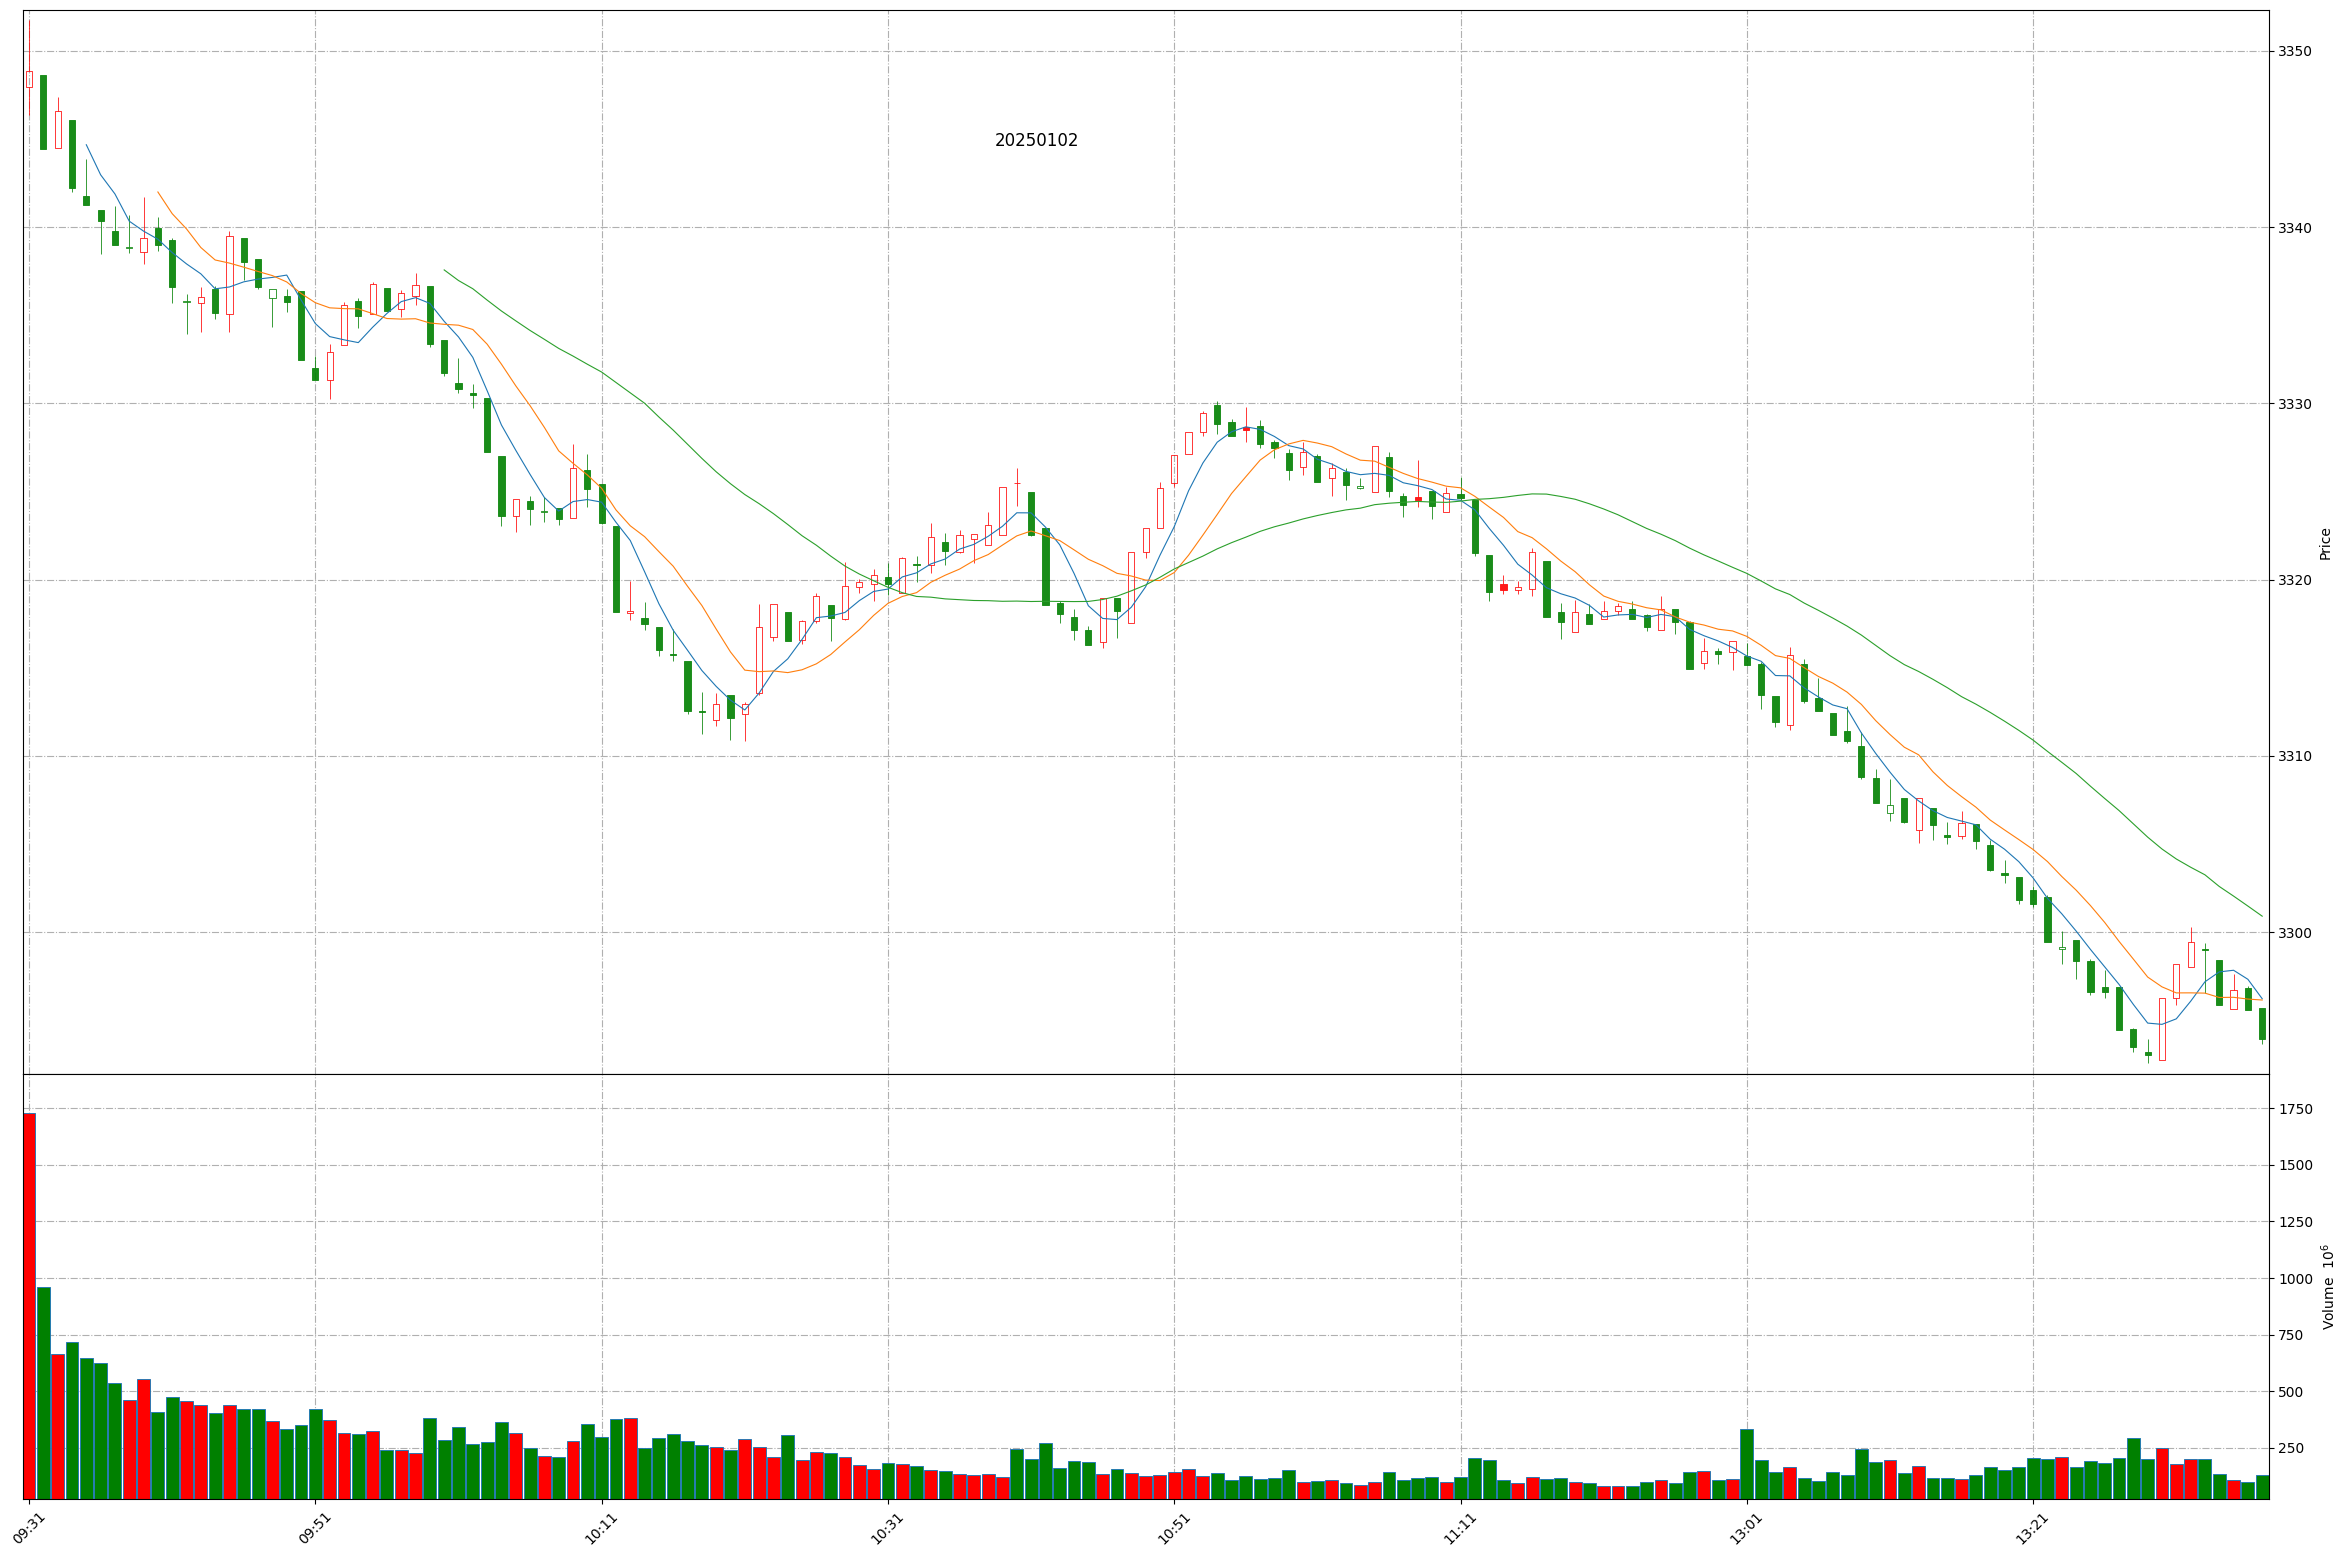
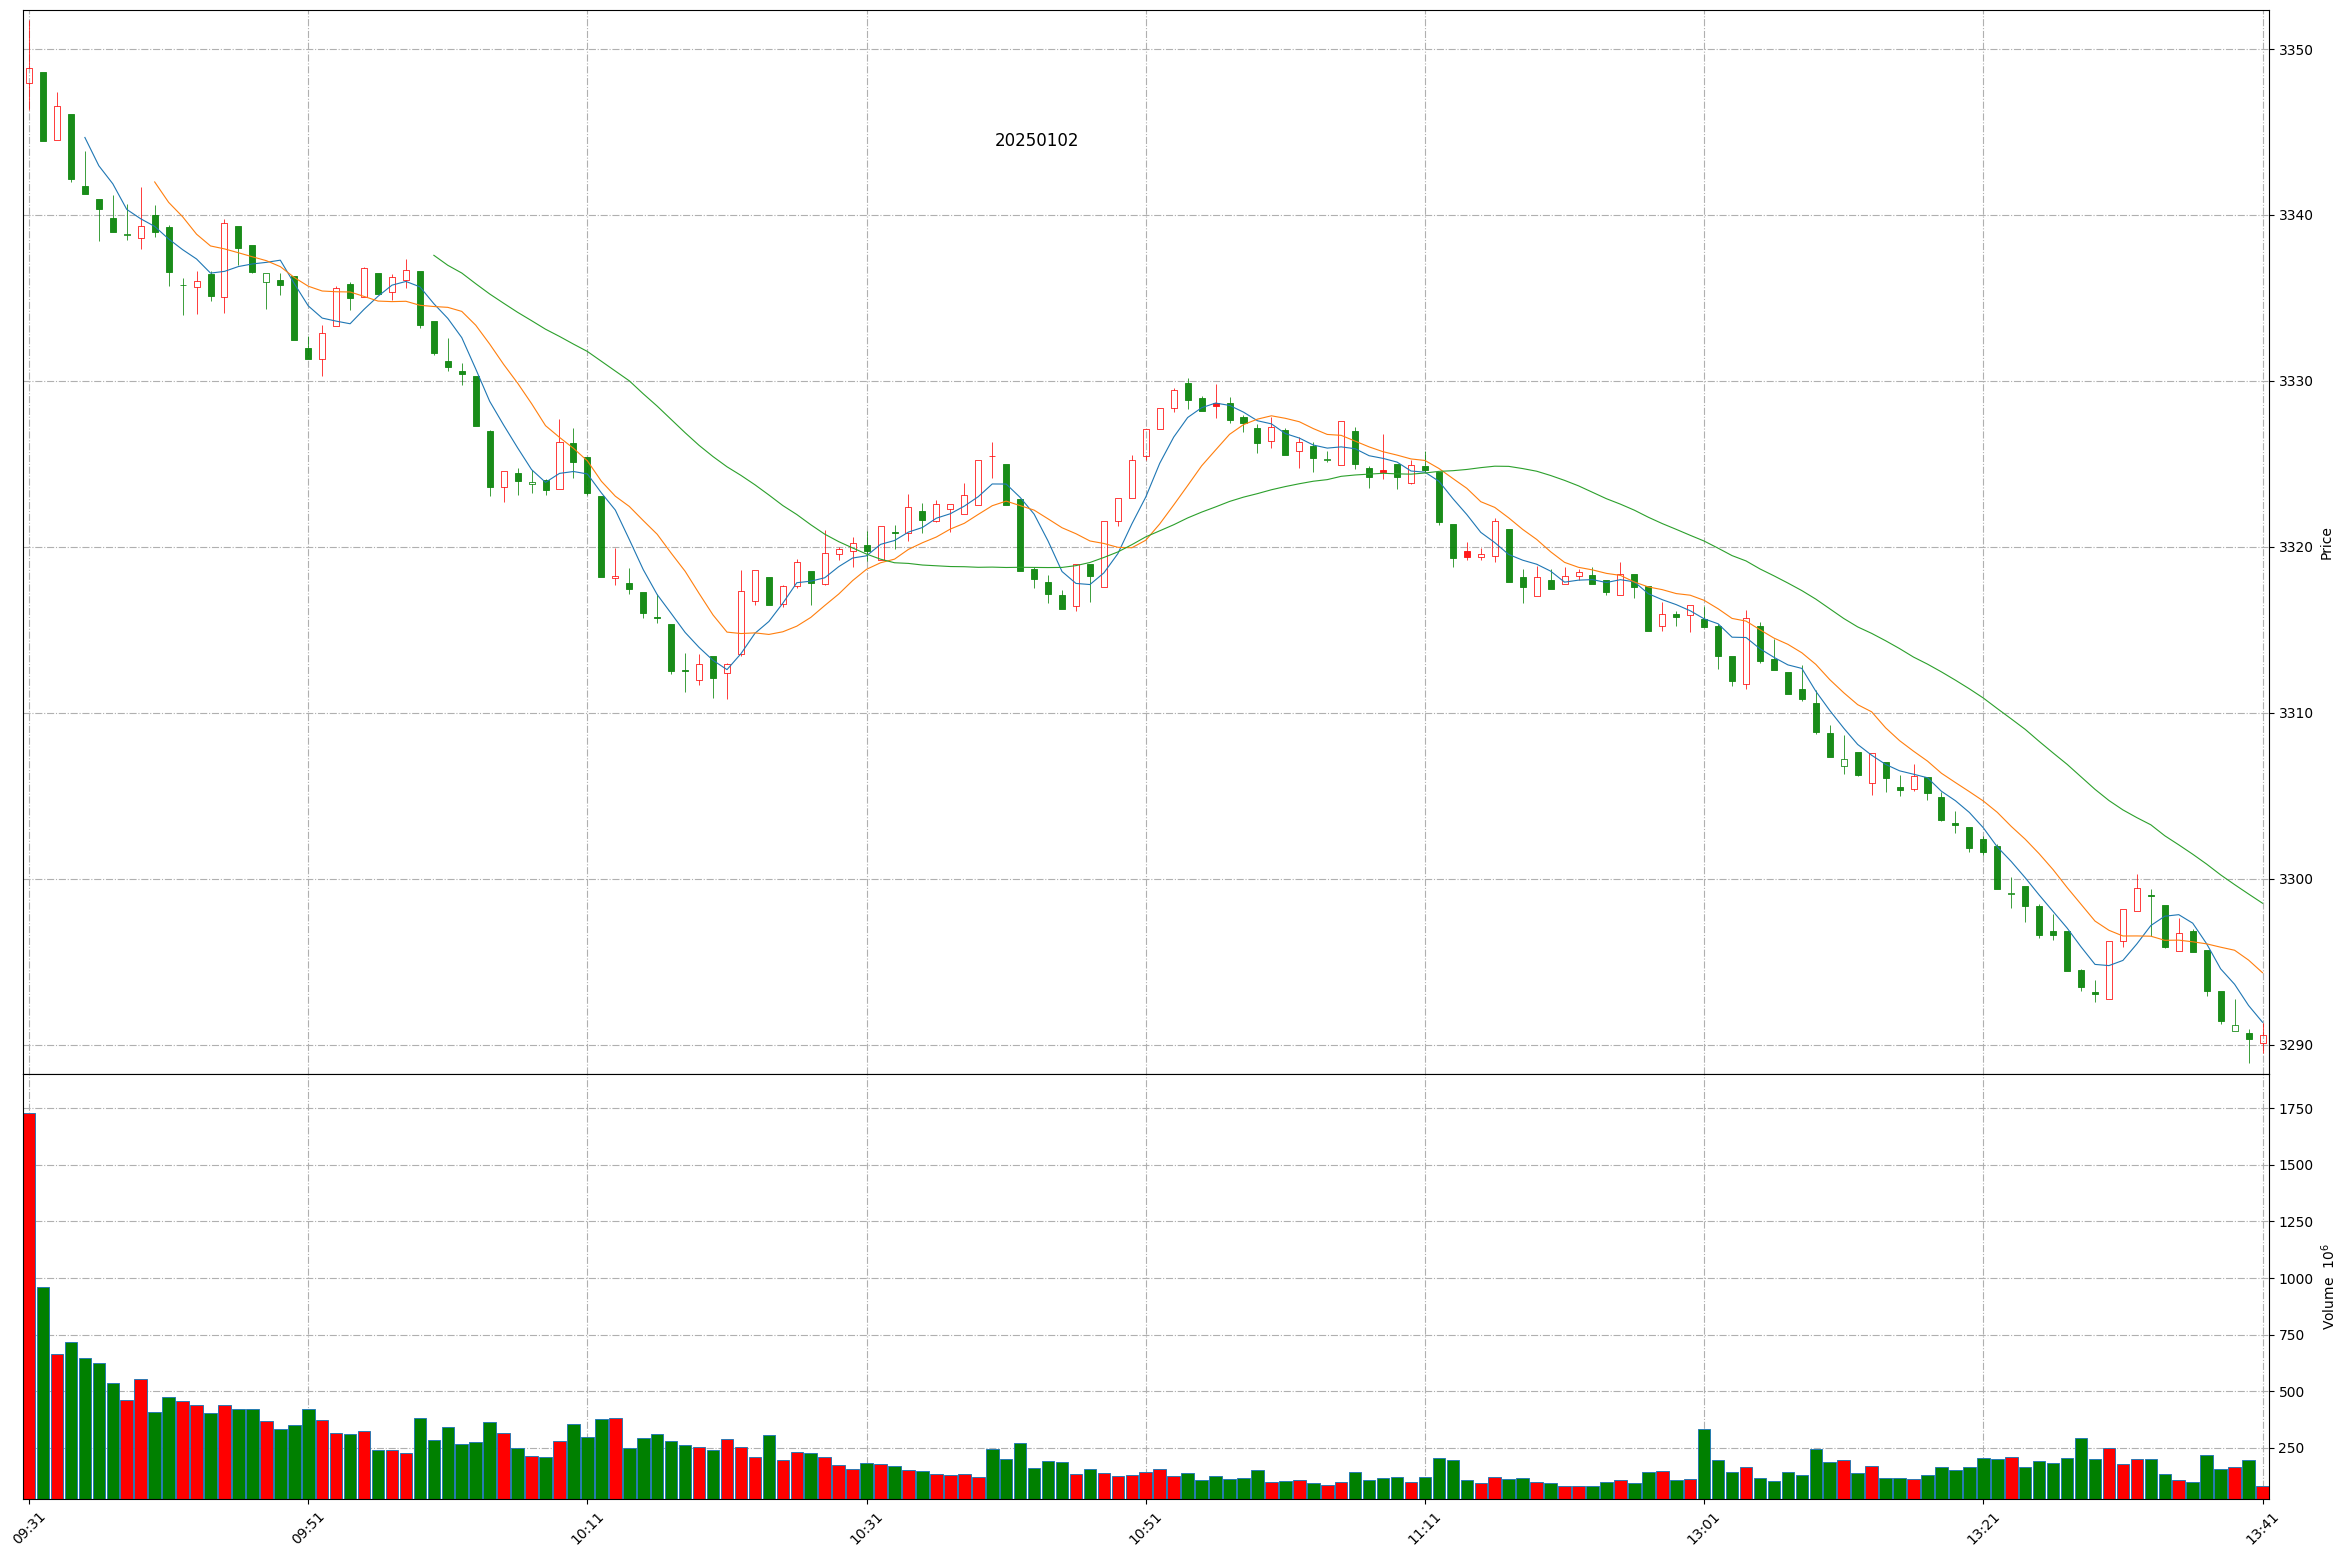
Github action update at 2025-01-02 13:40:52.

diff --git a/README.md b/README.md
@@ -1,11 +1,11 @@
 
 # Daily-A-share-market-quotes 每日 A 股指数（5min 更新）- 20250102
 
-### 上证指数 20250102 13:36
+### 上证指数 20250102 13:40
 ![](./fig/2025/1/20250102-sh000001.png)
 
-### 深证成指 20250102 13:36
+### 深证成指 20250102 13:40
 ![](./fig/2025/1/20250102-sz399001.png)
 
-### 北证50 20250102 13:36
+### 北证50 20250102 13:40
 ![](./fig/2025/1/20250102-bj899050.png)
